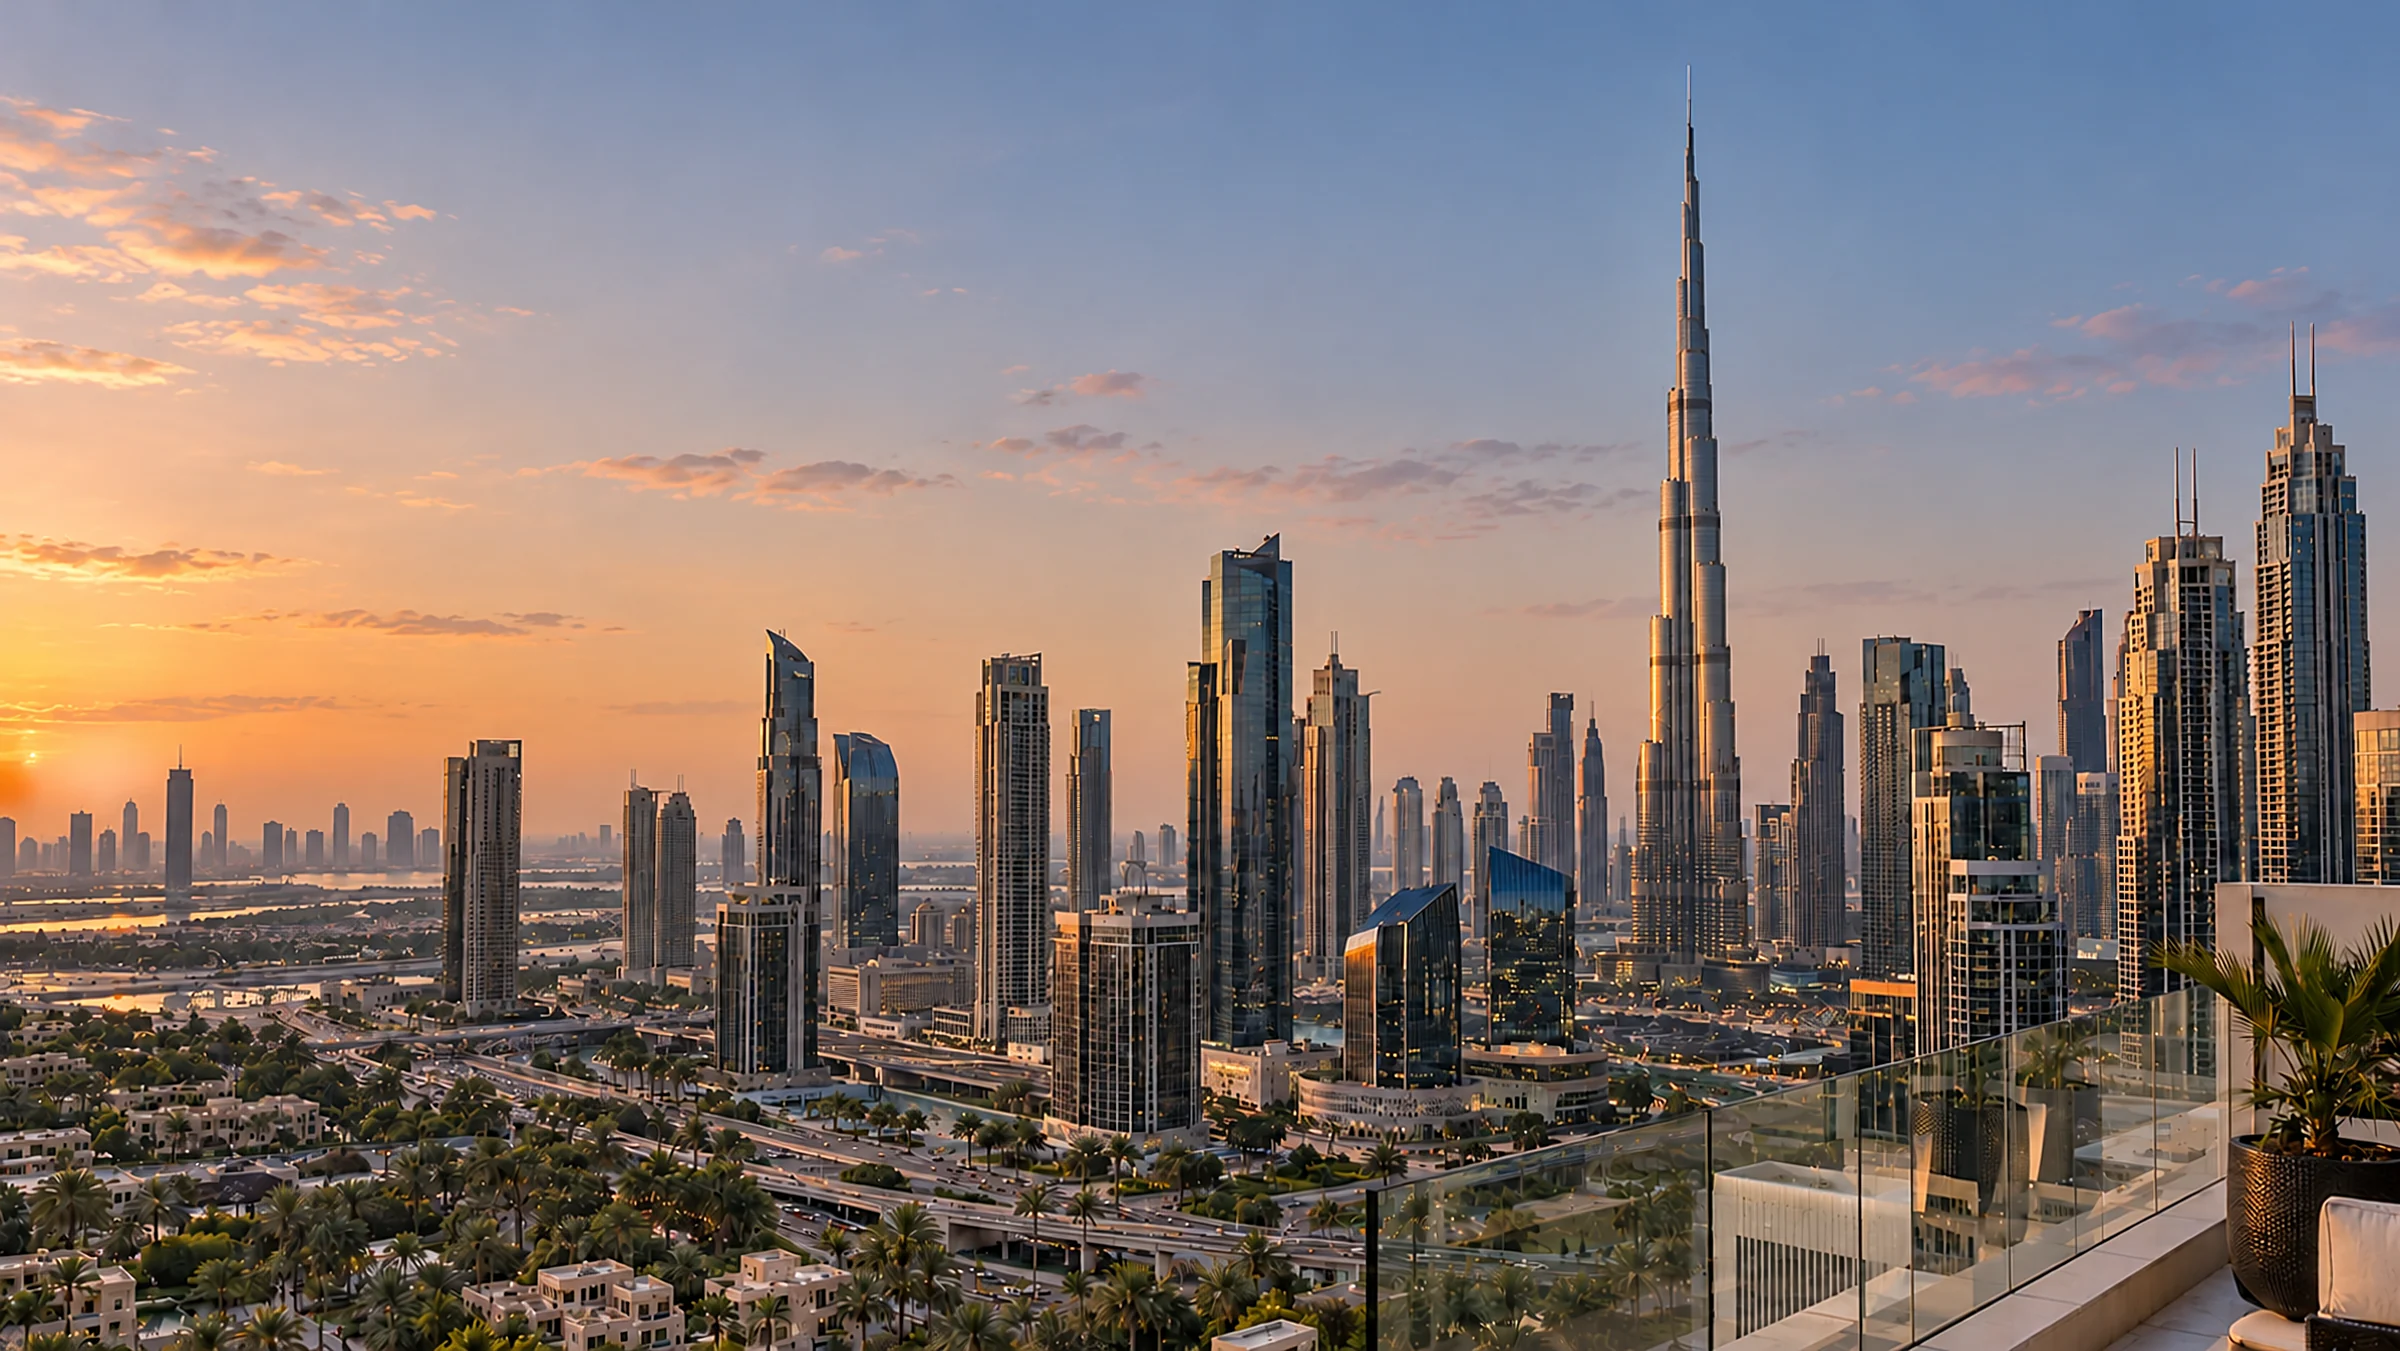
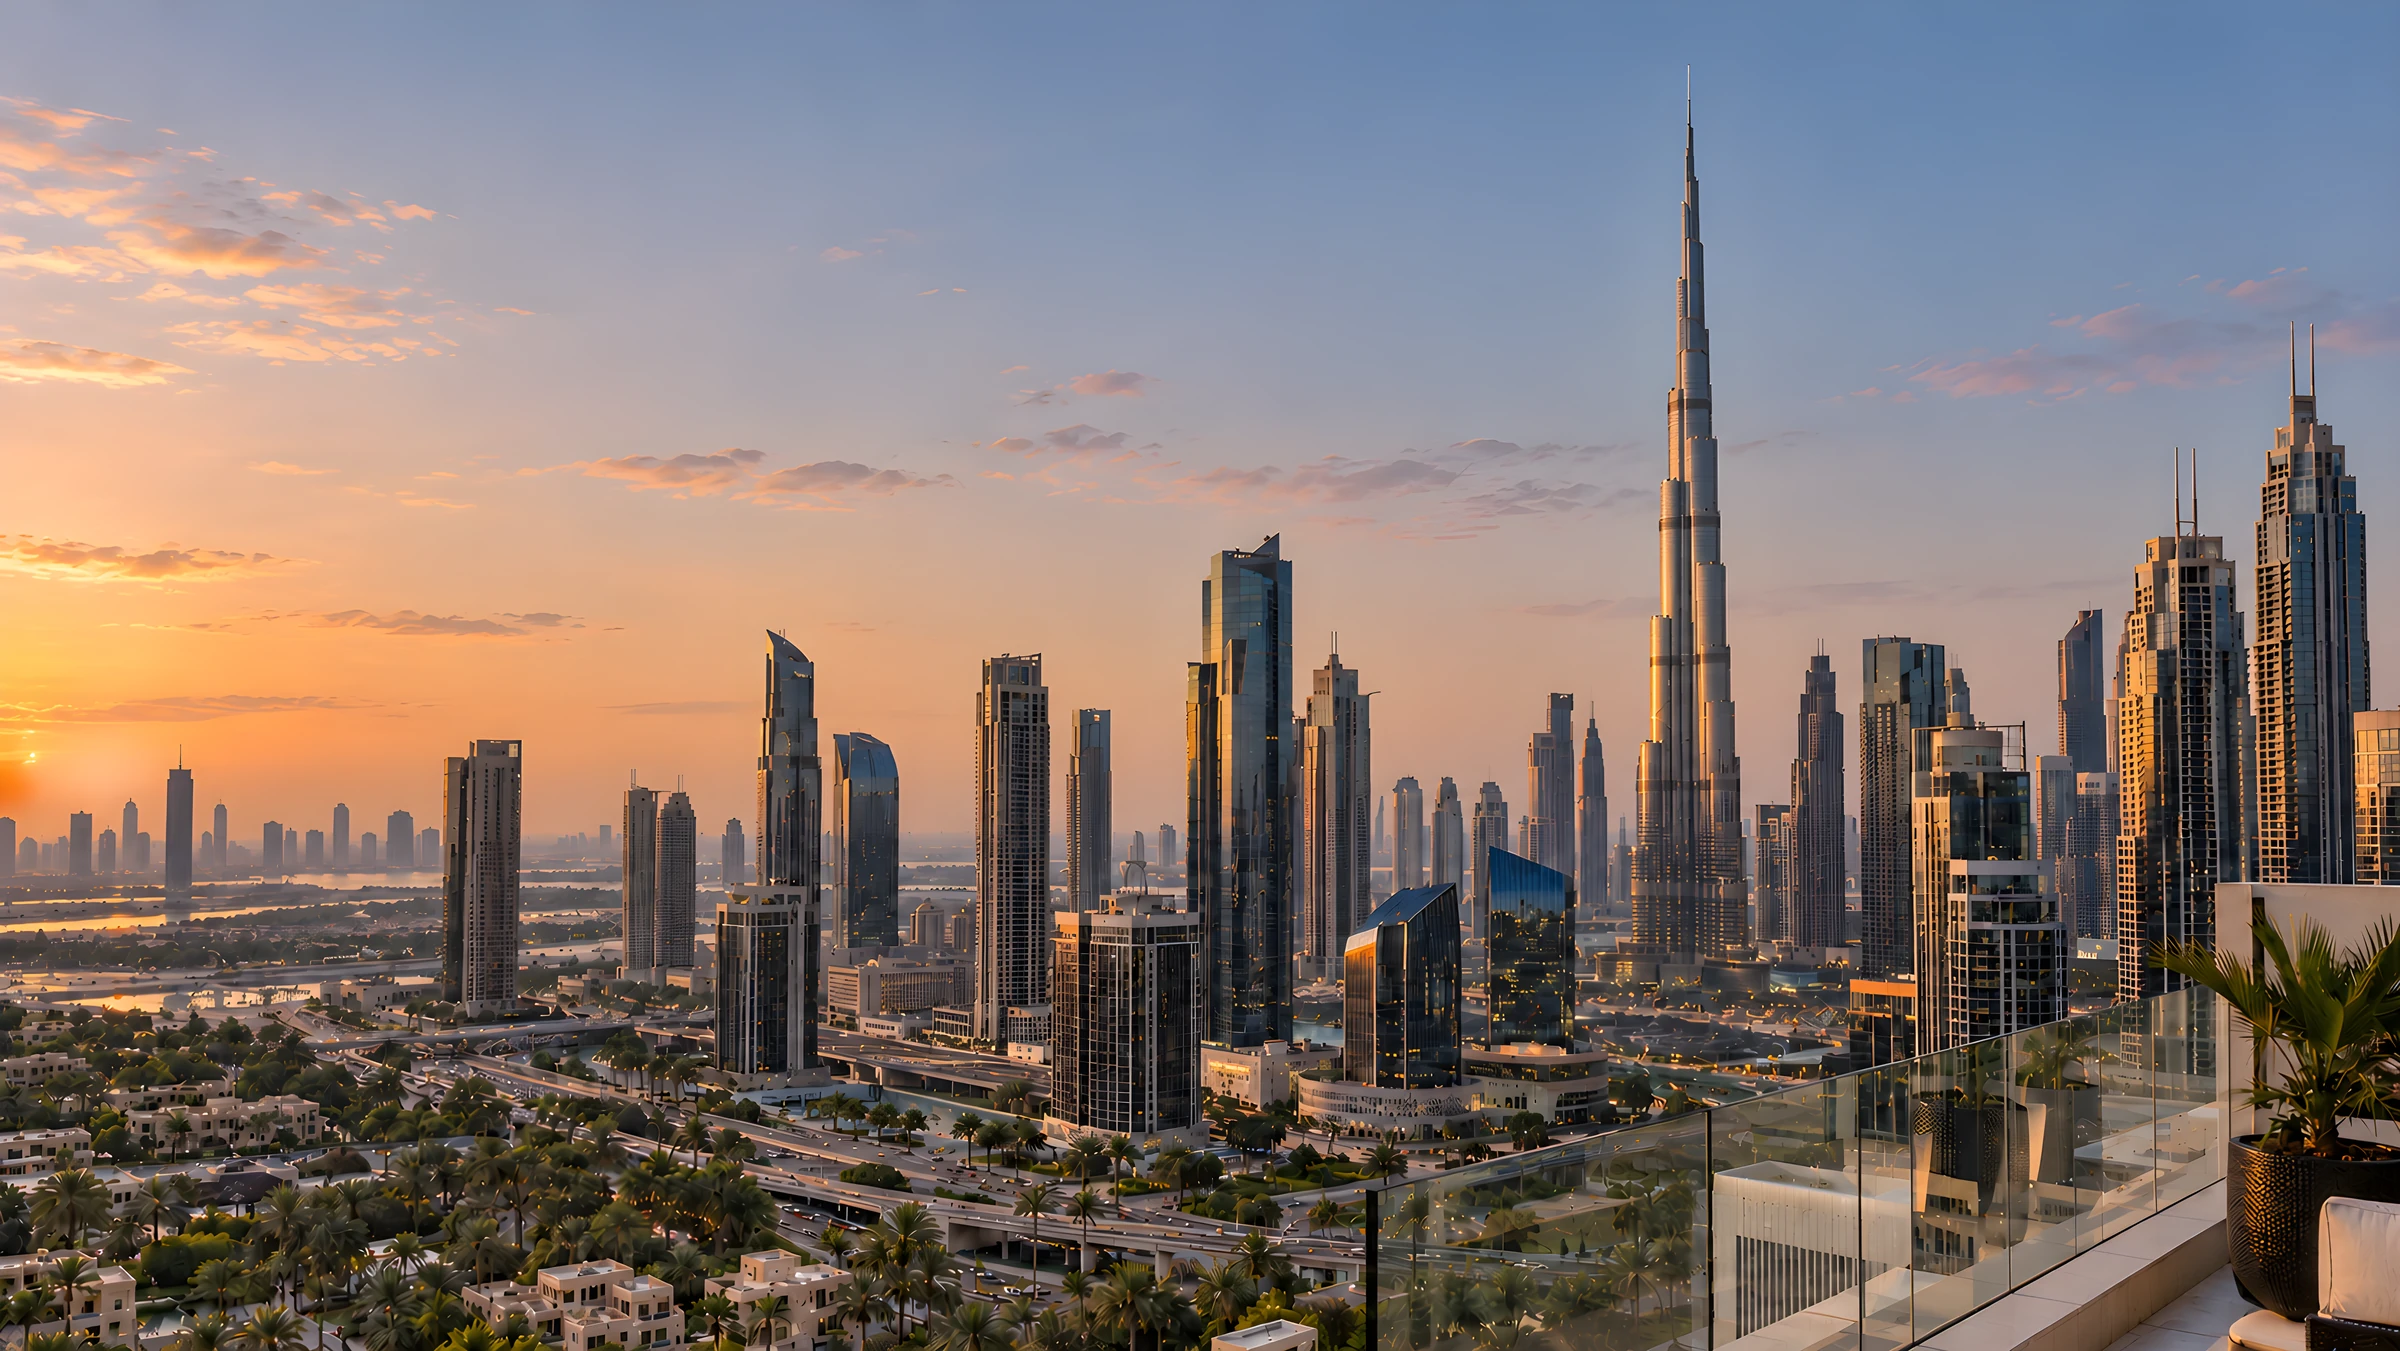
Fit the homepage hero to the screen, sharper hero photo, cobalt night buttons, better gallery renders (#41)
* Fit the homepage hero to the screen, cobalt night buttons, better gallery renders

From 900px the hero keeps Lasha's 1440x992 composition but never stands
taller than the window, so title, subtitle and Explore investments show
on the first screen. At night solid primary buttons are cobalt with white
text and a visible hover instead of off-white. The homepage project
gallery swaps two soft 700px apartment cut-aways for the official 4K
lobby and garden-pool renders. The theme photo importer accepts
Real-ESRGAN enlargements.

Claude-Session: https://claude.ai/code/session_01UMswCDkj3LFa8twXSpTpRk

* Sharper Dubai hero photos from Real-ESRGAN enlargements

Klem's 1672px originals are the largest that exist; 4x Real-ESRGAN
enlargements replace the soft EDSR ones, saved at WebP quality 90.

Claude-Session: https://claude.ai/code/session_01UMswCDkj3LFa8twXSpTpRk

* Keep white text on cobalt night buttons in menus, dialogs and the cookie notice

Claude-Session: https://claude.ai/code/session_01UMswCDkj3LFa8twXSpTpRk

---------

diff --git a/src/components/time-theme.css b/src/components/time-theme.css
@@ -129,20 +129,27 @@ html:root[data-time-theme='afternoon'] :is(.lasha-home .project-card, .lasha-pag
   background: #3c5a41;
 }
 
-/* ...and at night they turn off-white with graphite text, as v4's buttons do on its dark sections
-   and over its hero photos. */
+/* ...and at night they are a solid cobalt with white text, lightening on hover (Kemo, 17 October
+   2026: the off-white buttons read as "always white in dark mode" and their hover was invisible). */
+html:root[data-time-theme='night'] {
+  --l-night-button: #2557d6;
+  --l-night-button-hover: #4a76e8;
+}
+
 html:root[data-time-theme='night'] :is(.lasha-hero, .lasha-page-hero) .site-header .button-primary,
-html:root[data-time-theme='night'] :is(.lasha-home .project-card, .lasha-page .network-backing, .lasha-page .network-client, .it-ink, .mobile-nav.lasha-menu, .floor-modal, .mobile-residence-dock) :is(.lasha-button-primary, .button-primary, .mobile-register, .mobile-dock-open) {
-  border-color: #f7f7f4;
-  background: #f7f7f4;
-  color: #171a1d;
+html:root[data-time-theme='night'] :is(.lasha-home .project-card, .lasha-page .network-backing, .lasha-page .network-client, .it-ink, .mobile-nav.lasha-menu, .floor-modal, .mobile-residence-dock) :is(.lasha-button-primary, .button-primary, .mobile-register, .mobile-dock-open),
+html:root[data-time-theme='night'] body :is(.lasha-button-primary, .button-primary, .register-button, .mobile-register, .mobile-dock-open, .cookie-actions button) {
+  border-color: var(--l-night-button);
+  background: var(--l-night-button);
+  color: #fff;
 }
 
 html:root[data-time-theme='night'] :is(.lasha-hero, .lasha-page-hero) .site-header .button-primary:hover,
-html:root[data-time-theme='night'] :is(.lasha-home .project-card, .lasha-page .network-backing, .lasha-page .network-client, .it-ink, .mobile-nav.lasha-menu, .floor-modal, .mobile-residence-dock) :is(.lasha-button-primary, .button-primary, .mobile-register, .mobile-dock-open):hover {
-  border-color: #dce7f0;
-  background: #dce7f0;
-  color: #171a1d;
+html:root[data-time-theme='night'] :is(.lasha-home .project-card, .lasha-page .network-backing, .lasha-page .network-client, .it-ink, .mobile-nav.lasha-menu, .floor-modal, .mobile-residence-dock) :is(.lasha-button-primary, .button-primary, .mobile-register, .mobile-dock-open):hover,
+html:root[data-time-theme='night'] body :is(.lasha-button-primary, .button-primary, .register-button, .mobile-register, .mobile-dock-open, .cookie-actions button):hover {
+  border-color: var(--l-night-button-hover);
+  background: var(--l-night-button-hover);
+  color: #fff;
 }
 
 /* Colour bands follow the theme's text colour (v4: graphite on sage in the afternoon,
@@ -403,16 +410,16 @@ html:root[data-time-theme='night'] :is(.lasha-hero h1, .lasha-hero-copy p, .lash
 html:root[data-time-theme='night'] .lasha-page-hero .lasha-eyebrow { color: var(--l-blue-light); }
 html:root[data-time-theme='afternoon'] .lasha-page-hero .lasha-eyebrow { color: #2f4733; }
 html:root[data-time-theme='night'] .lasha-page-hero .it-hero-actions .button-ghost { border-color: #f7f7f4; color: #f7f7f4; }
-/* Over the dark night photos the hero is an ink ground, so its solid accent button uses the
-   theme's accent for ink grounds (--l-blue-light), as v4 does on its dark sections. */
+/* Over the dark night photos the solid accent button is the same night cobalt as the other
+   primary buttons (Kemo, 17 October 2026), not a pale tint. */
 html:root[data-time-theme='night'] :is(.lasha-hero-cta, .lasha-page-hero .it-hero-actions .button-primary) {
-  border-color: var(--l-blue-light);
-  background: var(--l-blue-light);
-  color: #171a1d;
+  border-color: var(--l-night-button);
+  background: var(--l-night-button);
+  color: #fff;
 }
 html:root[data-time-theme='night'] :is(.lasha-hero-cta, .lasha-page-hero .it-hero-actions .button-primary):hover {
-  border-color: color-mix(in srgb, var(--l-blue-light) 70%, #ffffff);
-  background: color-mix(in srgb, var(--l-blue-light) 70%, #ffffff);
+  border-color: var(--l-night-button-hover);
+  background: var(--l-night-button-hover);
 }
 html:root[data-time-theme='night'] :is(.lasha-hero-cta, .lasha-page-hero .it-hero-actions .button):focus-visible { outline-color: #f7f7f4; }
 html:root[data-time-theme='night'] .lasha-hero-frame::after {
@@ -514,15 +521,11 @@ html:root[data-time-theme='night'] .it-ink .it-card:not(.it-card-light) {
   --l-ink: #ecebe6;
   --l-paper: #141414;
 }
-/* Text on the pale night accent is ink, and the explorer copy follows the off-white ink. */
+/* Text on the pale night accent is ink, and the explorer copy follows the off-white ink. Solid
+   primary buttons are cobalt with white text at night (see the night button rules above). */
 html:root[data-time-theme='night'] :is(
-  body .modal-panel .button-primary,
-  body .cookie-actions button,
   .lasha-page .calculator-tabs button[aria-selected="true"],
-  :is(.lasha-home, .lasha-page) .residence-choice-field button.is-active,
-  :is(.lasha-home, .lasha-page) .mobile-register,
-  .mobile-nav.lasha-menu .mobile-register,
-  :is(.lasha-home, .lasha-page) .mobile-dock-open
+  :is(.lasha-home, .lasha-page) .residence-choice-field button.is-active
 ) {
   color: #000000;
 }

diff --git a/src/data/projects.js b/src/data/projects.js
@@ -11,6 +11,12 @@ const image = (slug, sizes, thumb = `/assets/projects/${slug}-600.webp`) => ({
   thumb,
 });
 
+const galleryImage = (slug, sizes = [960, 1600, 2400]) => ({
+  src: `/assets/projects/gallery/${slug}-${sizes[sizes.length - 1]}.webp`,
+  srcSet: sizes.map((width) => `/assets/projects/gallery/${slug}-${width}.webp ${width}w`).join(", "),
+  thumb: `/assets/projects/gallery/${slug}-480.webp`,
+});
+
 export const FEATURED_PROJECT = {
   id: "reverance",
   startingPrice: 45000,
@@ -23,8 +29,10 @@ export const FEATURED_PROJECT = {
     image("reverance-entrance", [600, 1200]),
     image("reverance-aerial", [600, 1200]),
     image("reverance-facade", [600, 1200]),
-    image("reverance-residence-a", [700], "/assets/projects/reverance-residence-a-700.webp"),
-    image("reverance-residence-b", [700], "/assets/projects/reverance-residence-b-700.webp"),
+    // Official 4K renders from the project gallery; they replaced two 700px apartment cut-aways
+    // that were soft and cropped in the frame (Kemo, 17 October 2026).
+    galleryImage("lobby"),
+    galleryImage("garden-pool"),
   ],
 };
 

diff --git a/src/components/lasha-home.css b/src/components/lasha-home.css
@@ -170,6 +170,19 @@
   background: var(--l-sky);
 }
 
+/* From 900px the frame keeps Figma's 1440 × 992 proportions but never stands taller than the
+   screen (Kemo, 17 October 2026: "why main page doesnt have everything fit on one viewport?"): on a
+   window wider than 1440:992 the frame is the screen's height and the copy is scaled by height
+   instead of width, so the title, subtitle and Explore investments all show on the first screen. */
+@media (min-width: 900px) {
+  .lasha-hero-frame {
+    --u: min(100cqi / 1440, 100svh / 992);
+    /* An explicit width, or the aspect ratio would narrow the frame to match the capped height. */
+    width: 100%;
+    max-height: 100svh;
+  }
+}
+
 .lasha-hero-media {
   position: absolute;
   inset: 0;

diff --git a/scripts/import-theme-photos.py b/scripts/import-theme-photos.py
@@ -13,7 +13,10 @@ written. With --only, just that family is rebuilt and the other families' sizes 
 UPSCALED_DIRS (also ":"-joined) may hold <source stem>-x4.png: a 4x EDSR super-resolution enlargement (OpenCV
 dnn_superres, EDSR_x4.pb) of a hero photo: phones and Retina laptops draw the full-width heroes
 and the Advantage / Broker Access split-hero photos 1.5-3x larger than the supplied files. A light unsharp mask restores the edge contrast the enlargement
-softens; it adds no detail that was not in the original. Photos without an enlargement are
+softens; it adds no detail that was not in the original. <source stem>-esrgan-x4.png is a 4x
+Real-ESRGAN (RealESRGAN_x4plus) enlargement, used as it is: it restores crisp edges where EDSR left the
+generated photos soft and smeared (Kemo, 17 October 2026: the homepage hero looked "pixelated and low
+quality"), and is preferred over an EDSR file of the same photo. Photos without an enlargement are
 used at their native size.
 
 Writes public/assets/themed/<family>-<theme>-<width>.webp, src/data/theme-photo-sizes.json and
@@ -82,8 +85,12 @@ def main(source_dirs, upscaled_dirs=(), only=None):
         sizes[family] = {}
         for theme in THEMES:
             stem = prefix[theme] if isinstance(prefix, dict) else f"{prefix}-{theme}"
-            upscaled = find(upscaled_dirs, (f"{stem}-x4.png",))
-            if upscaled:
+            esrgan = find(upscaled_dirs, (f"{stem}-esrgan-x4.png",))
+            upscaled = None if esrgan else find(upscaled_dirs, (f"{stem}-x4.png",))
+            if esrgan:
+                image = Image.open(esrgan).convert("RGB")
+                widths = [w for w in UPSCALED_WIDTHS if w <= image.width]
+            elif upscaled:
                 image = Image.open(upscaled).convert("RGB").filter(ImageFilter.UnsharpMask(radius=6, percent=50, threshold=2))
                 widths = [w for w in UPSCALED_WIDTHS if w <= image.width]
             else:
@@ -94,7 +101,7 @@ def main(source_dirs, upscaled_dirs=(), only=None):
             for width in widths:
                 height = round(image.height * width / image.width)
                 resized = image.resize((width, height), Image.LANCZOS)
-                resized.save(OUT / f"{family}-{theme}-{width}.webp", "WEBP", quality=86, method=6)
+                resized.save(OUT / f"{family}-{theme}-{width}.webp", "WEBP", quality=90 if esrgan else 86, method=6)
             sizes[family][theme] = {"width": image.width, "height": image.height, "widths": widths}
             print(family, theme, image.size, widths)
     sizes = {family: sizes[family] for family in FAMILIES if family in sizes}

diff --git a/AGENTS.md b/AGENTS.md
@@ -45,6 +45,8 @@ Before making substantial visual changes, use the Product Design plugin's `get-c
 
 - October 16 readability (Kemo: "Some texts are hard to read ... dont add stupid backgrounds"): text over photos is made readable only with its colour, weight, size, placement or the photo's framing, never with a box, panel, wash, glow or halo behind it. The header turns ink where the photo behind it is pale (homepage by day and afternoon, Insights by day; Broker Tools by day and Privacy by day/afternoon per label through LashaPageHero `lightSky`, mapped through the cover crop); the portrait homepage photo is drawn 1.4× (phones) or 1.75× (tablets from 600px) tall from its top so the title and subtitle sit on open sky (sizes 205vh / 255vh). On Advantage and Broker Access each header label takes the colour of the ground under most of its width (panel, render, or Broker Access's paper column). Muted labels are at least 72-74% ink (or off-white at night) and explorer overlay labels at least 0.6rem. Measure contrast against the rendered photo (text hidden, 10th-percentile pixel) in all three themes before shipping text over images.
 
+- October 17 Kemo fixes (screenshots of a 1910px Chrome window at night): from 900px the homepage hero keeps Lasha's 1440 × 992 composition but is never taller than the screen (`max-height: 100svh`, `--u` the smaller of width/1440 and height/992), so title, subtitle and Explore investments show on the first screen; portrait tablets keep the shorter width-based frame. The Dubai hero photos are 4x Real-ESRGAN enlargements (`<stem>-esrgan-x4.png`, WebP quality 90) of Klem's 1672px originals; no larger original exists, so ask Klem for higher-resolution renders before claiming new detail. At night every solid primary button (header Register, Explore investments/project, Register as a broker, footer, cookie, menu) is cobalt #2557d6 with white text and lightens to #4a76e8 on hover, never off-white. The homepage project gallery's two 700px apartment cut-aways were replaced by the official 4K lobby and garden-pool renders (Kemo: "find better images of this project").
+
 - October 14 audit (Kemo: "make sure website looks perfect on all devices and screens"): Long translations must wrap or hyphenate inside their boxes, never spill; re-run a 320–1920px sweep in all five languages after copy or layout changes.
 
 - October 14 page ending (Klem: "this page can't end with blue"; "We need to add also Contact"; supersedes the September 24 footer rule and the floating Site info disclosure): every public page, Selected Opportunities included (after the Residence Explorer), ends with the neutral `SiteFooter` in `src/components/Privacy.jsx` (`site-footer.css`): Contact (eyebrow, title, line, the email info@aixess.global as mailto and the office AIXCO International FZ-LLC, FDCW1595, Compass Building, Al Shohada Road, Al Hamra Industrial Zone-FZ, Ras Al Khaimah, United Arab Emirates, as Klem sent them on 15 October 2026, replacing AIXCO's Vienna office and info@aixco.global everywhere, privacy text included; no phone number and no form, since none is verified and the site has no working form destination on Vercel), then the logo, privacy, cookie settings and admin links. Paper and ink by day and afternoon, true black at night; no blue band may be the last section (the Insights FAQ is on paper). CONTACT is the last item of the desktop nav and the menu; it scrolls to and focuses `#contact` on the current page, and a `#contact` link opens the homepage there. Copy in `src/contact-copy.js`.
